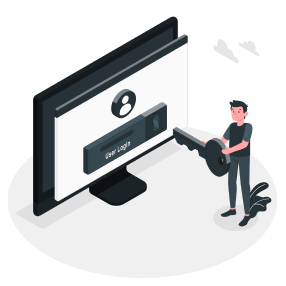
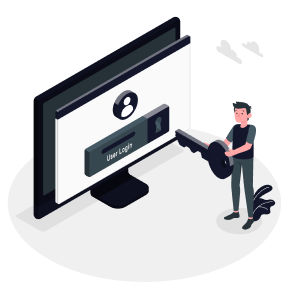
input front end complete

diff --git a/app/assets/stylesheets/components/_user_login.scss b/app/assets/stylesheets/components/_user_login.scss
@@ -17,13 +17,16 @@
 }
 
 .signin-rounded-inputs {
+  font-family: $headers-font;
   background-color: white !important;
-  border: 1px solid #ccc;
-  border-radius: 5px;
+  border: 0.5px solid $primary !important;
+  border-radius: 8px;
   padding: 12px;
   width: 100%;
   box-sizing: border-box;
 }
+
+
 
 .signup-header {
   padding-top: 65px;
@@ -34,6 +37,7 @@
 .page-container {
   background-color: white;
   height: 100vh;
+  color: $primary;
 }
 
 .overlay-image {
@@ -66,7 +70,7 @@
 }
 
 .forgotpw-link {
-  font-size: 15px;
+  font-size: 16px;
   text-decoration: none;
   color: black;
 }
